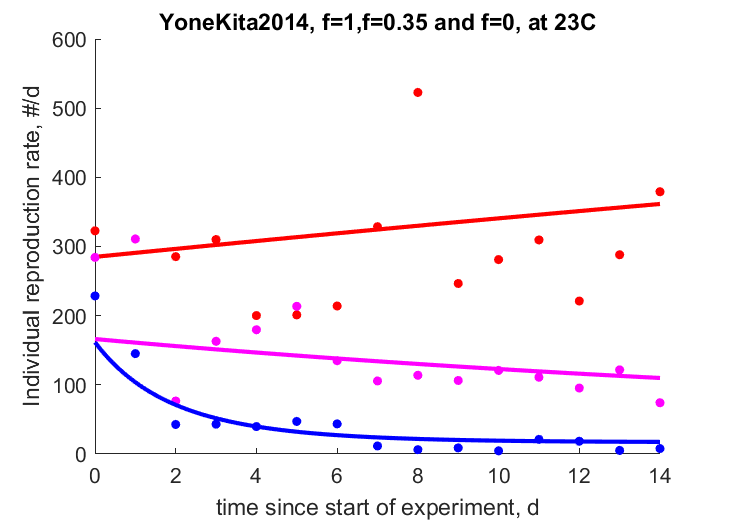
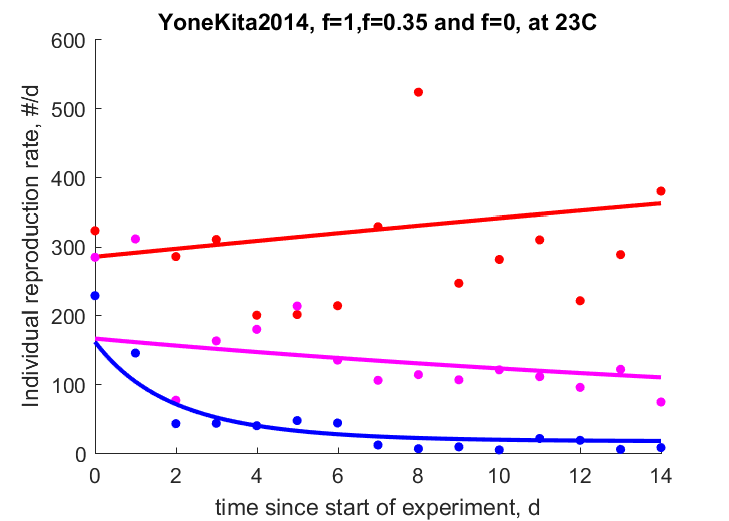
included t_j , needs more iterations for pars estim

diff --git a/Engraulis_japonicus_res.html b/Engraulis_japonicus_res.html
@@ -44,7 +44,7 @@
   </div>
 
   <div class="par">
-  <h4>COMPLETE = 3.0; MRE =    0.198; SMSE =    0.197 </h4>
+  <h4>COMPLETE = 3.0; MRE =    0.201; SMSE =    0.199 </h4>
   </div>
 
   <p class="clear"></p>
@@ -53,36 +53,38 @@
   <h2>Data & predictions</h2>
   <TABLE id="prd">
     <TR  class="head"><TH>data</TH> <TH>prd</TH> <TH>RE</TH>  <TH>symbol</TH> <TH>units</TH> <TH>description</TH> </TR>
-    <TR><TD>3.3</TD> <TD>4.233</TD> <TD>0.2828</TD> <TD>ab</TD> <TD>d</TD> <TD>age at birth</TD></TR>
-    <TR><TD> 96</TD> <TD>90.29</TD> <TD>0.05945</TD> <TD>tp_20</TD> <TD>d</TD> <TD>time since birth at puberty</TD></TR>
-    <TR><TD> 88</TD> <TD>92.2</TD> <TD>0.04773</TD> <TD>tp_m20</TD> <TD>d</TD> <TD>time since birth at puberty</TD></TR>
-    <TR><TD> 65</TD> <TD>56.11</TD> <TD>0.1368</TD> <TD>tp_26</TD> <TD>d</TD> <TD>time since birth at puberty</TD></TR>
-    <TR><TD> 60</TD> <TD>57.29</TD> <TD>0.04509</TD> <TD>tp_m26</TD> <TD>d</TD> <TD>time since birth at puberty</TD></TR>
-    <TR><TD>1462</TD> <TD>1204</TD> <TD>0.1768</TD> <TD>am</TD> <TD>d</TD> <TD>life span</TD></TR>
-    <TR><TD>0.3347</TD> <TD>0.2678</TD> <TD>0.2</TD> <TD>Lb</TD> <TD>cm</TD> <TD>standard length at birth</TD></TR>
-    <TR><TD>3.27</TD> <TD>2.534</TD> <TD>0.2252</TD> <TD>Lj</TD> <TD>cm</TD> <TD>standard length at metamorphosis</TD></TR>
-    <TR><TD>  7</TD> <TD>9.212</TD> <TD>0.316</TD> <TD>Lp</TD> <TD>cm</TD> <TD>standard length at puberty</TD></TR>
-    <TR><TD> 18</TD> <TD>13.67</TD> <TD>0.2405</TD> <TD>Li</TD> <TD>cm</TD> <TD>ultimate total length</TD></TR>
-    <TR><TD>0.00025</TD> <TD>0.0002752</TD> <TD>0.1007</TD> <TD>Wwb</TD> <TD>g</TD> <TD>wet weight at birth</TD></TR>
-    <TR><TD> 45</TD> <TD>45.31</TD> <TD>0.006846</TD> <TD>Wwi</TD> <TD>g</TD> <TD>ultimate wet weight</TD></TR>
-    <TR><TD>600</TD> <TD>595.3</TD> <TD>0.007876</TD> <TD>Ri</TD> <TD>#/d</TD> <TD>maximum reprod rate</TD></TR>
-    <TR><TD colspan="2">see figure</TD> <TD>0.02016</TD> <TD>Tah</TD> <TD colspan="2">temperature, <font color="blue"><i>vs.</i></font> age at hatching</TD>
-    <TR><TD colspan="2">see figure</TD> <TD>0.2658</TD> <TD>tR_f1_19</TD> <TD colspan="2">time since start of experiment, <font color="blue"><i>vs.</i></font> Individual reproduction rate</TD>
-    <TR><TD colspan="2">see figure</TD> <TD>0.2261</TD> <TD>tR_f1_23</TD> <TD colspan="2">time since start of experiment, <font color="blue"><i>vs.</i></font> Individual reproduction rate</TD>
-    <TR><TD colspan="2">see figure</TD> <TD>0.3602</TD> <TD>tR_f35_19</TD> <TD colspan="2">time since start of experiment, <font color="blue"><i>vs.</i></font> Individual reproduction rate</TD>
-    <TR><TD colspan="2">see figure</TD> <TD>0.2745</TD> <TD>tR_f35_23</TD> <TD colspan="2">time since start of experiment, <font color="blue"><i>vs.</i></font> Individual reproduction rate</TD>
-    <TR><TD colspan="2">see figure</TD> <TD>0.7615</TD> <TD>tR_f0_19</TD> <TD colspan="2">time since start of experiment, <font color="blue"><i>vs.</i></font> Individual reproduction rate</TD>
-    <TR><TD colspan="2">see figure</TD> <TD>0.3795</TD> <TD>tR_f0_23</TD> <TD colspan="2">time since start of experiment, <font color="blue"><i>vs.</i></font> Individual reproduction rate</TD>
-    <TR><TD colspan="2">see figure</TD> <TD>0.1324</TD> <TD>tL</TD> <TD colspan="2">time since birth, <font color="blue"><i>vs.</i></font> standard length</TD>
-    <TR><TD colspan="2">see figure</TD> <TD>0.2096</TD> <TD>tL2</TD> <TD colspan="2">time since birth, <font color="blue"><i>vs.</i></font> standard length</TD>
-    <TR><TD colspan="2">see figure</TD> <TD>0.1573</TD> <TD>LW</TD> <TD colspan="2">standard length, <font color="blue"><i>vs.</i></font> wet weight</TD>
+    <TR><TD>3.3</TD> <TD>4.374</TD> <TD>0.3254</TD> <TD>ab</TD> <TD>d</TD> <TD>age at birth</TD></TR>
+    <TR><TD>53.72</TD> <TD>47.5</TD> <TD>0.1158</TD> <TD>tj</TD> <TD>d</TD> <TD>age at metamorphosis</TD></TR>
+    <TR><TD> 96</TD> <TD>93.03</TD> <TD>0.03092</TD> <TD>tp_20</TD> <TD>d</TD> <TD>time since birth at puberty</TD></TR>
+    <TR><TD> 88</TD> <TD>85.11</TD> <TD>0.03287</TD> <TD>tp_m20</TD> <TD>d</TD> <TD>time since birth at puberty</TD></TR>
+    <TR><TD> 65</TD> <TD>58.12</TD> <TD>0.1059</TD> <TD>tp_26</TD> <TD>d</TD> <TD>time since birth at puberty</TD></TR>
+    <TR><TD> 60</TD> <TD>53.17</TD> <TD>0.1139</TD> <TD>tp_m26</TD> <TD>d</TD> <TD>time since birth at puberty</TD></TR>
+    <TR><TD>1462</TD> <TD>1181</TD> <TD>0.1925</TD> <TD>am</TD> <TD>d</TD> <TD>life span</TD></TR>
+    <TR><TD>0.3347</TD> <TD>0.2677</TD> <TD>0.2004</TD> <TD>Lb</TD> <TD>cm</TD> <TD>standard length at birth</TD></TR>
+    <TR><TD>3.7</TD> <TD>2.732</TD> <TD>0.2615</TD> <TD>Lj</TD> <TD>cm</TD> <TD>standard length at metamorphosis</TD></TR>
+    <TR><TD>6.6</TD> <TD>7.896</TD> <TD>0.1964</TD> <TD>Lp</TD> <TD>cm</TD> <TD>standard length at puberty</TD></TR>
+    <TR><TD>  6</TD> <TD>7.406</TD> <TD>0.2343</TD> <TD>Lp_m</TD> <TD>cm</TD> <TD>standard length at puberty</TD></TR>
+    <TR><TD> 18</TD> <TD>11.57</TD> <TD>0.3575</TD> <TD>Li</TD> <TD>cm</TD> <TD>ultimate total length</TD></TR>
+    <TR><TD>0.00025</TD> <TD>0.0002699</TD> <TD>0.07965</TD> <TD>Wwb</TD> <TD>g</TD> <TD>wet weight at birth</TD></TR>
+    <TR><TD> 45</TD> <TD>44.72</TD> <TD>0.006193</TD> <TD>Wwi</TD> <TD>g</TD> <TD>ultimate wet weight</TD></TR>
+    <TR><TD>600</TD> <TD>622.7</TD> <TD>0.03781</TD> <TD>Ri</TD> <TD>#/d</TD> <TD>maximum reprod rate</TD></TR>
+    <TR><TD colspan="2">see figure</TD> <TD>0.01623</TD> <TD>Tah</TD> <TD colspan="2">temperature, <font color="blue"><i>vs.</i></font> age at hatching</TD>
+    <TR><TD colspan="2">see figure</TD> <TD>0.2542</TD> <TD>tR_f1_19</TD> <TD colspan="2">time since start of experiment, <font color="blue"><i>vs.</i></font> Individual reproduction rate</TD>
+    <TR><TD colspan="2">see figure</TD> <TD>0.2149</TD> <TD>tR_f1_23</TD> <TD colspan="2">time since start of experiment, <font color="blue"><i>vs.</i></font> Individual reproduction rate</TD>
+    <TR><TD colspan="2">see figure</TD> <TD>0.3625</TD> <TD>tR_f35_19</TD> <TD colspan="2">time since start of experiment, <font color="blue"><i>vs.</i></font> Individual reproduction rate</TD>
+    <TR><TD colspan="2">see figure</TD> <TD>0.2751</TD> <TD>tR_f35_23</TD> <TD colspan="2">time since start of experiment, <font color="blue"><i>vs.</i></font> Individual reproduction rate</TD>
+    <TR><TD colspan="2">see figure</TD> <TD>0.7643</TD> <TD>tR_f0_19</TD> <TD colspan="2">time since start of experiment, <font color="blue"><i>vs.</i></font> Individual reproduction rate</TD>
+    <TR><TD colspan="2">see figure</TD> <TD>0.383</TD> <TD>tR_f0_23</TD> <TD colspan="2">time since start of experiment, <font color="blue"><i>vs.</i></font> Individual reproduction rate</TD>
+    <TR><TD colspan="2">see figure</TD> <TD>0.1865</TD> <TD>tL</TD> <TD colspan="2">time since birth, <font color="blue"><i>vs.</i></font> standard length</TD>
+    <TR><TD colspan="2">see figure</TD> <TD>0.2222</TD> <TD>tL_juv</TD> <TD colspan="2">time since birth, <font color="blue"><i>vs.</i></font> standard length</TD>
+    <TR><TD colspan="2">see figure</TD> <TD>0.1579</TD> <TD>LW</TD> <TD colspan="2">standard length, <font color="blue"><i>vs.</i></font> wet weight</TD>
     <TR><TD colspan="2">see figure</TD> <TD>0.1078</TD> <TD>LWw</TD> <TD colspan="2">standard length, <font color="blue"><i>vs.</i></font> wet weight</TD>
-    <TR class="psd"><TD>0.02</TD> <TD>0.03529</TD> <TD>0.7647</TD> <TD>psd.v</TD> <TD>cm/d</TD> <TD>energy conductance</TD></TR>
-    <TR class="psd"><TD>0.8</TD> <TD>0.8892</TD> <TD>0.1115</TD> <TD>psd.kap</TD> <TD>-</TD> <TD>allocation fraction to soma</TD></TR>
+    <TR class="psd"><TD>0.02</TD> <TD>0.03458</TD> <TD>0.7291</TD> <TD>psd.v</TD> <TD>cm/d</TD> <TD>energy conductance</TD></TR>
+    <TR class="psd"><TD>0.8</TD> <TD>0.8868</TD> <TD>0.1085</TD> <TD>psd.kap</TD> <TD>-</TD> <TD>allocation fraction to soma</TD></TR>
     <TR class="psd"><TD>0.95</TD> <TD>0.95</TD> <TD>  0</TD> <TD>psd.kap_R</TD> <TD>-</TD> <TD>reproduction efficiency</TD></TR>
-    <TR class="psd"><TD> 18</TD> <TD>369.3</TD> <TD>19.51</TD> <TD>psd.p_M</TD> <TD>J/d.cm^3</TD> <TD>vol-spec som maint</TD></TR>
+    <TR class="psd"><TD> 18</TD> <TD>370.3</TD> <TD>19.57</TD> <TD>psd.p_M</TD> <TD>J/d.cm^3</TD> <TD>vol-spec som maint</TD></TR>
     <TR class="psd"><TD>0.002</TD> <TD>0.002</TD> <TD>  0</TD> <TD>psd.k_J</TD> <TD>1/d</TD> <TD>maturity maint rate coefficient</TD></TR>
-    <TR class="psd"><TD>0.8</TD> <TD>0.8004</TD> <TD>0.0005198</TD> <TD>psd.kap_G</TD> <TD>-</TD> <TD>growth efficiency</TD></TR>
+    <TR class="psd"><TD>0.8</TD> <TD>0.8004</TD> <TD>0.0005452</TD> <TD>psd.kap_G</TD> <TD>-</TD> <TD>growth efficiency</TD></TR>
   </TABLE>
   </div>
 
@@ -91,33 +93,33 @@
   <TABLE id="par">
     <TR class="head"><TH>symbol</TH> <TH>units</TH> <TH>value</TH>  <TH>free</TH> <TH>description</TH> </TR>
     <TR><TD>T_ref</TD> <TD>K</TD> <TD>293.1</TD> <TD>0</TD> <TD>Reference temperature</TD></TR>
-    <TR><TD>T_A</TD> <TD>K</TD> <TD>6991</TD> <TD>1</TD> <TD>Arrhenius temp</TD></TR>
-    <TR><TD>z</TD> <TD>-</TD> <TD>0.3102</TD> <TD>1</TD> <TD>zoom factor</TD></TR>
+    <TR><TD>T_A</TD> <TD>K</TD> <TD>6914</TD> <TD>1</TD> <TD>Arrhenius temp</TD></TR>
+    <TR><TD>z</TD> <TD>-</TD> <TD>0.2882</TD> <TD>1</TD> <TD>zoom factor</TD></TR>
     <TR><TD>F_m</TD> <TD>l/d.cm^2</TD> <TD>6.5</TD> <TD>0</TD> <TD>{F_m}, max spec searching rate</TD></TR>
     <TR><TD>kap_X</TD> <TD>-</TD> <TD>0.8</TD> <TD>0</TD> <TD>digestion efficiency of food to reserve</TD></TR>
     <TR><TD>kap_P</TD> <TD>-</TD> <TD>0.1</TD> <TD>0</TD> <TD>faecation efficiency of food to faeces</TD></TR>
-    <TR><TD>v</TD> <TD>cm/d</TD> <TD>0.03529</TD> <TD>1</TD> <TD>energy conductance</TD></TR>
-    <TR><TD>kap</TD> <TD>-</TD> <TD>0.8892</TD> <TD>1</TD> <TD>allocation fraction to soma</TD></TR>
+    <TR><TD>v</TD> <TD>cm/d</TD> <TD>0.03458</TD> <TD>1</TD> <TD>energy conductance</TD></TR>
+    <TR><TD>kap</TD> <TD>-</TD> <TD>0.8868</TD> <TD>1</TD> <TD>allocation fraction to soma</TD></TR>
     <TR><TD>kap_R</TD> <TD>-</TD> <TD>0.95</TD> <TD>0</TD> <TD>reproduction efficiency</TD></TR>
-    <TR><TD>p_M</TD> <TD>J/d.cm^3</TD> <TD>369.3</TD> <TD>1</TD> <TD>[p_M], vol-spec somatic maint</TD></TR>
+    <TR><TD>p_M</TD> <TD>J/d.cm^3</TD> <TD>370.3</TD> <TD>1</TD> <TD>[p_M], vol-spec somatic maint</TD></TR>
     <TR><TD>p_T</TD> <TD>J/d.cm^2</TD> <TD>  0</TD> <TD>0</TD> <TD>{p_T}, surf-spec somatic maint</TD></TR>
     <TR><TD>k_J</TD> <TD>1/d</TD> <TD>0.002</TD> <TD>0</TD> <TD>maturity maint rate coefficient</TD></TR>
     <TR><TD>E_G</TD> <TD>J/cm^3</TD> <TD>5227</TD> <TD>1</TD> <TD>[E_G], spec cost for structure</TD></TR>
-    <TR><TD>E_Hb</TD> <TD>J</TD> <TD>0.1136</TD> <TD>1</TD> <TD>maturity at birth</TD></TR>
-    <TR><TD>E_Hj</TD> <TD>J</TD> <TD>112.2</TD> <TD>1</TD> <TD>maturity at metam</TD></TR>
-    <TR><TD>E_Hp</TD> <TD>J</TD> <TD>1.375e+04</TD> <TD>1</TD> <TD>maturity at puberty</TD></TR>
+    <TR><TD>E_Hb</TD> <TD>J</TD> <TD>0.1171</TD> <TD>1</TD> <TD>maturity at birth</TD></TR>
+    <TR><TD>E_Hj</TD> <TD>J</TD> <TD>147.2</TD> <TD>1</TD> <TD>maturity at metam</TD></TR>
+    <TR><TD>E_Hp</TD> <TD>J</TD> <TD>1.487e+04</TD> <TD>1</TD> <TD>maturity at puberty</TD></TR>
     <TR><TD>h_a</TD> <TD>1/d^2</TD> <TD>3.179e-08</TD> <TD>0</TD> <TD>Weibull aging acceleration</TD></TR>
     <TR><TD>s_G</TD> <TD>-</TD> <TD>0.0001</TD> <TD>0</TD> <TD>Gompertz stress coefficient</TD></TR>
-    <TR><TD>E_Hh</TD> <TD>J</TD> <TD>0.0001988</TD> <TD>1</TD> <TD>maturity at hatching</TD></TR>
-    <TR><TD>E_Hpm</TD> <TD>J</TD> <TD>1.465e+04</TD> <TD>1</TD> <TD>maturity at puberty for males</TD></TR>
-    <TR><TD>del_M</TD> <TD>-</TD> <TD>0.1999</TD> <TD>1</TD> <TD>shape coefficient for standard length</TD></TR>
-    <TR><TD>del_M_TL</TD> <TD>-</TD> <TD>0.2147</TD> <TD>1</TD> <TD>shape coefficient for total length</TD></TR>
+    <TR><TD>E_Hh</TD> <TD>J</TD> <TD>0.0001889</TD> <TD>1</TD> <TD>maturity at hatching</TD></TR>
+    <TR><TD>E_Hpm</TD> <TD>J</TD> <TD>1.118e+04</TD> <TD>1</TD> <TD>maturity at puberty for males</TD></TR>
+    <TR><TD>del_M</TD> <TD>-</TD> <TD>0.2001</TD> <TD>1</TD> <TD>shape coefficient for standard length</TD></TR>
+    <TR><TD>del_M_TL</TD> <TD>-</TD> <TD>0.2544</TD> <TD>1</TD> <TD>shape coefficient for total length</TD></TR>
     <TR><TD>f</TD> <TD>-</TD> <TD>  1</TD> <TD>0</TD> <TD>scaled functional response for 0-var data</TD></TR>
-    <TR><TD>f_0</TD> <TD>-</TD> <TD>0.3888</TD> <TD>1</TD> <TD>scaled functional response for N-T 0 food data</TD></TR>
-    <TR><TD>f_35</TD> <TD>-</TD> <TD>0.4018</TD> <TD>1</TD> <TD>scaled functional response for N-T low food data</TD></TR>
-    <TR><TD>f_LWw</TD> <TD>-</TD> <TD>0.2638</TD> <TD>1</TD> <TD>scaled functional response for length-weight data in Wakasa Bay</TD></TR>
-    <TR><TD>f_tL</TD> <TD>-</TD> <TD>0.5245</TD> <TD>1</TD> <TD>scaled functional response for tL data</TD></TR>
-    <TR><TD>f_tR</TD> <TD>-</TD> <TD>  1</TD> <TD>1</TD> <TD>scaled functional response for ad libitum part of tN-data experiments</TD></TR>
+    <TR><TD>f_0</TD> <TD>-</TD> <TD>0.3946</TD> <TD>1</TD> <TD>scaled functional response for N-T 0 food data</TD></TR>
+    <TR><TD>f_35</TD> <TD>-</TD> <TD>0.4085</TD> <TD>1</TD> <TD>scaled functional response for N-T low food data</TD></TR>
+    <TR><TD>f_LWw</TD> <TD>-</TD> <TD>0.2721</TD> <TD>1</TD> <TD>scaled functional response for length-weight data in Wakasa Bay</TD></TR>
+    <TR><TD>f_tL</TD> <TD>-</TD> <TD>0.5561</TD> <TD>1</TD> <TD>scaled functional response for tL data</TD></TR>
+    <TR><TD>f_tR</TD> <TD>-</TD> <TD>0.9314</TD> <TD>1</TD> <TD>scaled functional response for ad libitum part of tN-data experiments</TD></TR>
     <TR><TD>t_0</TD> <TD>d</TD> <TD>  1</TD> <TD>0</TD> <TD>time at start development at 20 C</TD></TR>
   </TABLE>
   </div>

diff --git a/mydata_Engraulis_japonicus.m b/mydata_Engraulis_japonicus.m
@@ -44,7 +44,11 @@ metaData.date_acc    = [];
 data.ab = 1.3 + 2;      units.ab = 'd';    label.ab = 'age at birth';      bibkey.ab = 'Fuku1983'; 
   temp.ab = C2K(24); units.temp.ab = 'K'; label.temp.ab = 'temperature';
   comment.ab = 'Temp range 23-25, mouth open and functional from day 2';
-data.tp_20 = 96;  units.tp_20 = 'd'; label.tp_20 = 'time since birth at puberty'; bibkey.tp_20 = 'YoneYama2015';
+data.tj = 53.72;  units.tj = 'd';    label.tj = 'age at metamorphosis';   bibkey.tj = 'TakaWata2004';
+comment.tj = ['Mean SL of 193 individuals where 50% had completed metamorphosis. Collected from subsurface ',...
+      'of Kuroshio Oyashio transition region of Pacific, May-June 1998. Completion of metamorphosis defined as:', ...
+      ' "Fish with guanine deposition on the peritoneal and trunk surfaces" '];
+  temp.tj = C2K(18.4); units.temp.tj = 'K'; label.temp.tj = 'temperature';  data.tp_20 = 96;  units.tp_20 = 'd'; label.tp_20 = 'time since birth at puberty'; bibkey.tp_20 = 'YoneYama2015';
   temp.tp_20 = C2K(20.8);  units.temp.tp_20 = 'K'; label.temp.tp_20 = 'temperature';
   comment.tp_20 = 'Females; temp range 20-22; ad libitum food; guess 50% individuals mature at 96 days given data in paper'; 
 data.tp_m20 = 88;  units.tp_m20 = 'd'; label.tp_m20 = 'time since birth at puberty'; bibkey.tp_m20 = 'YoneYama2015';
@@ -64,17 +68,19 @@ data.Lb = 0.33475;   units.Lb = 'cm'; label.Lb = 'standard length at birth';bibk
 %data.Lj = 2.1;   units.Lj = 'cm';   label.Lj = 'standard length at metamorphosis' ;bibkey.Lj = 'Fuku1983';
 %  comment.Lj = ' "Transformation from the larval to the juv. stage", signified by completed fin development';
 data.Lj = 3.7;   units.Lj = 'cm';   label.Lj = 'standard length at metamorphosis';bibkey.Lj = 'TakaWata2004';
-  comment.Lj = 'Mean SL of 193 individuals where 50% had completed metamorphosis. Collected from subsurface of Kuroshio–Oyashio transition region of Pacific, May-June 1998. Completion of metamorphosis defined as: "Fish with guanine deposition on the peritoneal and trunk surfaces" ';
-data.Lp = 7;   units.Lp = 'cm'; label.Lp = 'standard length at puberty';bibkey.Lp = 'FunaAoki2004';
-  comment.Lp = 'Guessed. 7.38 in Osaka Bay where food was considered "high". 50% of females mature in Sagami Bay at 6 cm SL (no food info), 8.53cm In Wakasa Bay where food availability for large anchovy (copepods) was considered "low"';
+  comment.Lj = ['Mean SL of 193 individuals where 50% had completed metamorphosis. Collected from subsurface ',...
+      'of Kuroshio Oyashio transition region of Pacific, May-June 1998. Completion of metamorphosis defined as:', ...
+      ' "Fish with guanine deposition on the peritoneal and trunk surfaces" '];
+% data.Lp = 7;   units.Lp = 'cm'; label.Lp = 'standard length at puberty';bibkey.Lp = 'FunaAoki2004';
+%   comment.Lp = 'Guessed. 7.38 in Osaka Bay where food was considered "high". 50% of females mature in Sagami Bay at 6 cm SL (no food info), 8.53cm In Wakasa Bay where food availability for large anchovy (copepods) was considered "low"';
 %data.Lp = 5;   units.Lp = 'cm'; label.Lp = 'standard length at puberty' ;bibkey.Lp = 'YoneYama2015';
 %  comment.Lp = 'Mean temp = 26.8 (26-28); food ad libitum; 50% of males % females mature at 5 cm in tank.';  
 %data.Lp_m = 5;   units.Lp_m = 'cm'; label.Lp_m = 'standard length at puberty' ;bibkey.Lp_m = 'YoneYama2015';
 %  comment.Lp_m = 'Mean temp = 26.8 (26-28); food ad libitum; 50% of males % females mature at 5 cm in tank.'; 
-%data.Lp = 6.6;   units.Lp = 'cm'; label.Lp = 'standard length at puberty' ;bibkey.Lp = 'YoneYama2015';
-%  comment.Lp = 'Mean temp = 20.8 (20-22); food ad libitum; 50% of females mature at 6.6 cm in tank.';
-%data.Lp_m = 6;   units.Lp_m = 'cm'; label.Lp_m = 'standard length at puberty' ;bibkey.Lp_m = 'YoneYama2015';
-%  comment.Lp_m = 'Mean temp = 20.8 (20-22); food ad libitum; 50% of males mature at 6 cm in tank.';
+data.Lp = 6.6;   units.Lp = 'cm'; label.Lp = 'standard length at puberty' ;bibkey.Lp = 'YoneYama2015';
+ comment.Lp = 'Mean temp = 20.8 (20-22); food ad libitum; 50% of females mature at 6.6 cm in tank.';
+data.Lp_m = 6;   units.Lp_m = 'cm'; label.Lp_m = 'standard length at puberty' ;bibkey.Lp_m = 'YoneYama2015';
+ comment.Lp_m = 'Mean temp = 20.8 (20-22); food ad libitum; 50% of males mature at 6 cm in tank.';
 data.Li = 18;     units.Li = 'cm';   label.Li = 'ultimate total length';  bibkey.Li = 'fishbase';
   comment.Li = 'total length * 1.162 = 20.91 SL, seems a bit high...';
 
@@ -178,13 +184,13 @@ units.tL = {'d', 'cm'}; label.tL = {'time since birth', 'standard length'};
 temp.tL = C2K(22);  units.temp.tL = 'K'; label.temp.tL = 'temperature';
 bibkey.tL = 'FukuTaka1988';
 
-data.tL2 = [ ...  % time since birth (d), standard length (cm)
+data.tL_juv = [ ...  % time since birth (d), standard length (cm)
 0	0.715	3.688	7.795	10.771	14.878	17.783	20.971	24.724	28.902	30.886	34.92	39.88	43.916	48.022	51.001	55.036	59.145	62.192
 0.247	0.304	0.376	0.526	0.697	0.847	0.99	1.196	1.296	1.468	1.568	1.612	1.925	2.04	2.154	2.466	2.553	2.746	2.93
 ]';
-units.tL2 = {'d', 'cm'}; label.tL2 = {'time since birth', 'standard length'};  
-temp.tL2 = C2K(22);  units.temp.tL2 = 'K'; label.temp.tL2 = 'temperature';
-bibkey.tL2 = 'Fuku1983';
+units.tL_juv = {'d', 'cm'}; label.tL_juv = {'time since birth', 'standard length'};  
+temp.tL_juv = C2K(22);  units.temp.tL_juv = 'K'; label.temp.tL_juv = 'temperature';
+bibkey.tL_juv = 'Fuku1983';
 
 % Length-Weight
 data.LW = [ ... 
@@ -230,7 +236,7 @@ metaData.grp.comment = {comment4,comment5};
 %
 %% Facts
 F1 = 'Standard to total length: SL * 1.162 =  TL';
-metaData.bibkey.F1 = 'Fishbase'; % "Entered on Fishbase by Froese, Rainer on 11.15.01"
+metaData.bibkey.F1 = 'fishbase'; % "Entered on Fishbase by Froese, Rainer on 11.15.01"
 metaData.facts = struct('F1',F1);
 
 %% Discussion points

diff --git a/pars_init_Engraulis_japonicus.m b/pars_init_Engraulis_japonicus.m
@@ -6,35 +6,35 @@ metaPar.model = 'abj';
 par.T_ref = 293.15;   free.T_ref = 0;   units.T_ref = 'K';        label.T_ref = 'Reference temperature'; 
 
 %% core primary parameters 
-par.T_A = 6657.1452;  free.T_A   = 1;   units.T_A = 'K';          label.T_A = 'Arrhenius temp'; 
-par.z = 0.43294;      free.z     = 1;   units.z = '-';            label.z = 'zoom factor'; 
+par.T_A = 6913.931;   free.T_A   = 1;   units.T_A = 'K';          label.T_A = 'Arrhenius temp'; 
+par.z = 0.28821;      free.z     = 1;   units.z = '-';            label.z = 'zoom factor'; 
 par.F_m = 6.5;        free.F_m   = 0;   units.F_m = 'l/d.cm^2';   label.F_m = '{F_m}, max spec searching rate'; 
 par.kap_X = 0.8;      free.kap_X = 0;   units.kap_X = '-';        label.kap_X = 'digestion efficiency of food to reserve'; 
 par.kap_P = 0.1;      free.kap_P = 0;   units.kap_P = '-';        label.kap_P = 'faecation efficiency of food to faeces'; 
-par.v = 0.036886;     free.v     = 1;   units.v = 'cm/d';         label.v = 'energy conductance'; 
-par.kap = 0.85651;    free.kap   = 1;   units.kap = '-';          label.kap = 'allocation fraction to soma'; 
+par.v = 0.034582;     free.v     = 1;   units.v = 'cm/d';         label.v = 'energy conductance'; 
+par.kap = 0.88679;    free.kap   = 1;   units.kap = '-';          label.kap = 'allocation fraction to soma'; 
 par.kap_R = 0.95;     free.kap_R = 0;   units.kap_R = '-';        label.kap_R = 'reproduction efficiency'; 
-par.p_M = 273.6182;   free.p_M   = 1;   units.p_M = 'J/d.cm^3';   label.p_M = '[p_M], vol-spec somatic maint'; 
+par.p_M = 370.272;    free.p_M   = 1;   units.p_M = 'J/d.cm^3';   label.p_M = '[p_M], vol-spec somatic maint'; 
 par.p_T = 0;          free.p_T   = 0;   units.p_T = 'J/d.cm^2';   label.p_T = '{p_T}, surf-spec somatic maint'; 
 par.k_J = 0.002;      free.k_J   = 0;   units.k_J = '1/d';        label.k_J = 'maturity maint rate coefficient'; 
-par.E_G = 5224.6741;  free.E_G   = 1;   units.E_G = 'J/cm^3';     label.E_G = '[E_G], spec cost for structure'; 
-par.E_Hb = 1.415e-01; free.E_Hb  = 1;   units.E_Hb = 'J';         label.E_Hb = 'maturity at birth'; 
-par.E_Hj = 4.825e+01; free.E_Hj  = 1;   units.E_Hj = 'J';         label.E_Hj = 'maturity at metam'; 
-par.E_Hp = 1.120e+04; free.E_Hp  = 1;   units.E_Hp = 'J';         label.E_Hp = 'maturity at puberty'; 
+par.E_G = 5227.2755;  free.E_G   = 1;   units.E_G = 'J/cm^3';     label.E_G = '[E_G], spec cost for structure'; 
+par.E_Hb = 1.171e-01; free.E_Hb  = 1;   units.E_Hb = 'J';         label.E_Hb = 'maturity at birth'; 
+par.E_Hj = 1.472e+02; free.E_Hj  = 1;   units.E_Hj = 'J';         label.E_Hj = 'maturity at metam'; 
+par.E_Hp = 1.487e+04; free.E_Hp  = 1;   units.E_Hp = 'J';         label.E_Hp = 'maturity at puberty'; 
 par.h_a = 3.179e-08;  free.h_a   = 0;   units.h_a = '1/d^2';      label.h_a = 'Weibull aging acceleration'; 
 par.s_G = 0.0001;     free.s_G   = 0;   units.s_G = '-';          label.s_G = 'Gompertz stress coefficient'; 
 
 %% other parameters 
-par.E_Hh = 3.057e-04; free.E_Hh  = 1;   units.E_Hh = 'J';         label.E_Hh = 'maturity at hatching'; 
-par.E_Hpm = 1.085e+04; free.E_Hpm = 1;   units.E_Hpm = 'J';        label.E_Hpm = 'maturity at puberty for males'; 
-par.del_M = 0.20093;  free.del_M = 1;   units.del_M = '-';        label.del_M = 'shape coefficient for standard length'; 
-par.del_M_TL = 0.20209;  free.del_M_TL = 1;   units.del_M_TL = '-';     label.del_M_TL = 'shape coefficient for total length'; 
+par.E_Hh = 1.889e-04; free.E_Hh  = 1;   units.E_Hh = 'J';         label.E_Hh = 'maturity at hatching'; 
+par.E_Hpm = 1.118e+04; free.E_Hpm = 1;   units.E_Hpm = 'J';        label.E_Hpm = 'maturity at puberty for males'; 
+par.del_M = 0.20012;  free.del_M = 1;   units.del_M = '-';        label.del_M = 'shape coefficient for standard length'; 
+par.del_M_TL = 0.25439;  free.del_M_TL = 1;   units.del_M_TL = '-';     label.del_M_TL = 'shape coefficient for total length'; 
 par.f = 1;            free.f     = 0;   units.f = '-';            label.f = 'scaled functional response for 0-var data'; 
-par.f_0 = 0.36433;    free.f_0   = 1;   units.f_0 = '-';          label.f_0 = 'scaled functional response for N-T 0 food data'; 
-par.f_35 = 0.36588;   free.f_35  = 1;   units.f_35 = '-';         label.f_35 = 'scaled functional response for N-T low food data'; 
-par.f_LWw = 0.23443;  free.f_LWw = 1;   units.f_LWw = '-';        label.f_LWw = 'scaled functional response for length-weight data in Wakasa Bay'; 
-par.f_tL = 0.49366;   free.f_tL  = 1;   units.f_tL = '-';         label.f_tL = 'scaled functional response for tL data'; 
-par.f_tR = 1;         free.f_tR  = 1;   units.f_tR = '-';         label.f_tR = 'scaled functional response for ad libitum part of tN-data experiments'; 
+par.f_0 = 0.39463;    free.f_0   = 1;   units.f_0 = '-';          label.f_0 = 'scaled functional response for N-T 0 food data'; 
+par.f_35 = 0.4085;    free.f_35  = 1;   units.f_35 = '-';         label.f_35 = 'scaled functional response for N-T low food data'; 
+par.f_LWw = 0.27205;  free.f_LWw = 1;   units.f_LWw = '-';        label.f_LWw = 'scaled functional response for length-weight data in Wakasa Bay'; 
+par.f_tL = 0.55609;   free.f_tL  = 1;   units.f_tL = '-';         label.f_tL = 'scaled functional response for tL data'; 
+par.f_tR = 0.9314;    free.f_tR  = 1;   units.f_tR = '-';         label.f_tR = 'scaled functional response for ad libitum part of tN-data experiments'; 
 par.t_0 = 1;          free.t_0   = 0;   units.t_0 = 'd';          label.t_0 = 'time at start development at 20 C'; 
 
 %% set chemical parameters from Kooy2010 

diff --git a/predict_Engraulis_japonicus.m b/predict_Engraulis_japonicus.m
@@ -6,7 +6,7 @@ function [prdData, info] = predict_Engraulis_japonicus(par, data, auxData)
 
 filterChecks = f_tL >1 || ... % f contrained to not be larger than 1 or negative
                f_tL <0 ||... 
-               f_tR>1 || f_0 > f_35 || f_35 > f_tR ; %   scaled food for repro experiments
+               f_tR > 1.2 || f_0 > f_35 || f_35 > f_tR ; %   scaled food for repro experiments
 if filterChecks
    info = 0;
    prdData = {};
@@ -20,8 +20,10 @@ end
 %% compute temperature correction factors
   TC_Tah = tempcorr(Tah(:,1), T_ref, T_A); 
   TC_ab = tempcorr(temp.ab, T_ref, T_A);
+  TC_tj = tempcorr(temp.tj, T_ref, T_A);
   TC_am = tempcorr(temp.am, T_ref, T_A);
   TC_tL = tempcorr(temp.tL, T_ref, T_A);
+  TC_tL_juv = tempcorr(temp.tL_juv, T_ref, T_A);
   TC_20 = tempcorr(temp.tp_20, T_ref, T_A);
   TC_26 = tempcorr(temp.tp_26, T_ref, T_A);
   TC_19 = tempcorr(temp.tR_f1_19, T_ref, T_A);
@@ -45,6 +47,7 @@ end
   % metam
   L_j = L_m * l_j;                  % cm, structural length at metam
   Lw_j = L_j/ del_M;                % cm, standard length at metam
+  tT_j = tau_j/ k_M/ TC_tj;          % d, age at birth of foetus at f and T
 
   % puberty 
   L_p = L_m * l_p;                  % cm, structural length at puberty at f
@@ -68,21 +71,32 @@ end
   aT_m = t_m/ k_M/ TC_am;                  % d, mean life span at T
   
 %Males
+%   p_Amm = z_m * p_M/ kap;
+%   E_mm     = p_Amm/v;             % J/cm^3, [E_m], reserve capacity 
+%   gm       = E_G/ kap/ E_mm ;      % -, energy investment ratio
+%   L_mm     = v/ k_M/ gm;           % cm, maximum length
+L_mm = L_m; % assume males and females have same L_m (and L_i)
   pars_tjm = [g k l_T v_Hb v_Hj v_Hpm];
   [tau_jm, tau_pm, tau_bm, l_jm, l_pm, l_bm, l_im, rho_jm, rho_Bm] = get_tj(pars_tjm, f);
   tT_pm20 = (tau_pm - tau_bm)/ k_M/ TC_20; % d, time since birth at puberty
   tT_pm26 = (tau_pm - tau_bm)/ k_M/ TC_26; % d, time since birth at puberty
-
+  Lw_p_m = (L_mm * l_pm)/ del_M_TL;                % cm, total length at puberty at f
+  
+  
   % pack to output
   prdData.ab = aT_b;
+  prdData.tj = tT_j;
   prdData.tp_26 = tT_p26;
   prdData.tp_20 = tT_p20;
   prdData.tp_m26 = tT_pm26;
   prdData.tp_m20 = tT_pm20;
   prdData.am = aT_m;
+ 
   prdData.Lb = Lw_b;
   prdData.Lj = Lw_j;
   prdData.Lp = Lw_p;
+  prdData.Lp_m = Lw_p_m;
+  
   prdData.Li = Lw_i;
   prdData.Wwb = Ww_b;
   prdData.Wwi = Ww_i;
@@ -96,10 +110,12 @@ end
   L_bj = L_b * exp(tL(tL(:,1) < tT_j) * rT_j/3); % exponential growth as V1-morph
   L_ji = L_i - (L_i - L_j) * exp( - rT_B * (tL(tL(:,1) >= tT_j) - tT_j)); % cm, expected length at time
   ELw = [L_bj; L_ji]/ del_M; % % cm, standard length
-  %
-  L_bj = L_b * exp(tL2(tL2(:,1) < tT_j) * rT_j/3); % exponential growth as V1-morph
-  L_ji = L_i - (L_i - L_j) * exp( - rT_B * (tL2(tL2(:,1) >= tT_j) - tT_j)); % cm, expected length at time
-  ELw2 = [L_bj; L_ji]/ del_M; % % cm, standard length
+  
+  % time-length juveniles
+  kT_M = TC_tL_juv * k_M; rT_B = rho_B * kT_M; rT_j = rho_j * kT_M;     % 1/d, von Bert, exponential growth rate
+  L_bj = L_b * exp(tL_juv(tL_juv(:,1) < tT_j) * rT_j/3); % exponential growth as V1-morph
+  L_ji = L_i - (L_i - L_j) * exp( - rT_B * (tL_juv(tL_juv(:,1) >= tT_j) - tT_j)); % cm, expected length at time
+  ELw_juv = [L_bj; L_ji]/ del_M; % % cm, standard length
 
   % length-weight
   EWw = (LW(:,1) * del_M).^3 * (1 + ome * f_tL); % g, wet weight
@@ -183,10 +199,10 @@ end
   prdData.tR_f0_19 = ER_f0_19; 
   prdData.tR_f0_23 = ER_f0_23;
  
-  prdData.tp_20 = tT_p20;
-  prdData.tp_26 = tT_p26; 
+%   prdData.tp_20 = tT_p20;
+%   prdData.tp_26 = tT_p26; 
   prdData.tL = ELw;
-  prdData.tL2 = ELw2;
+  prdData.tL_juv = ELw_juv;
   prdData.LW = EWw;
   prdData.LWw = EWw_L;
 

diff --git a/run_Engraulis_japonicus.m b/run_Engraulis_japonicus.m
@@ -8,8 +8,8 @@ estim_options('default');
 estim_options('max_step_number', 5e3); 
 estim_options('max_fun_evals', 5e3); 
 
-estim_options('pars_init_method', 1); 
-estim_options('results_output', 3); 
+estim_options('pars_init_method', 2); 
+estim_options('results_output', 2); 
 estim_options('method', 'nm'); 
 
 estim_pars; 
